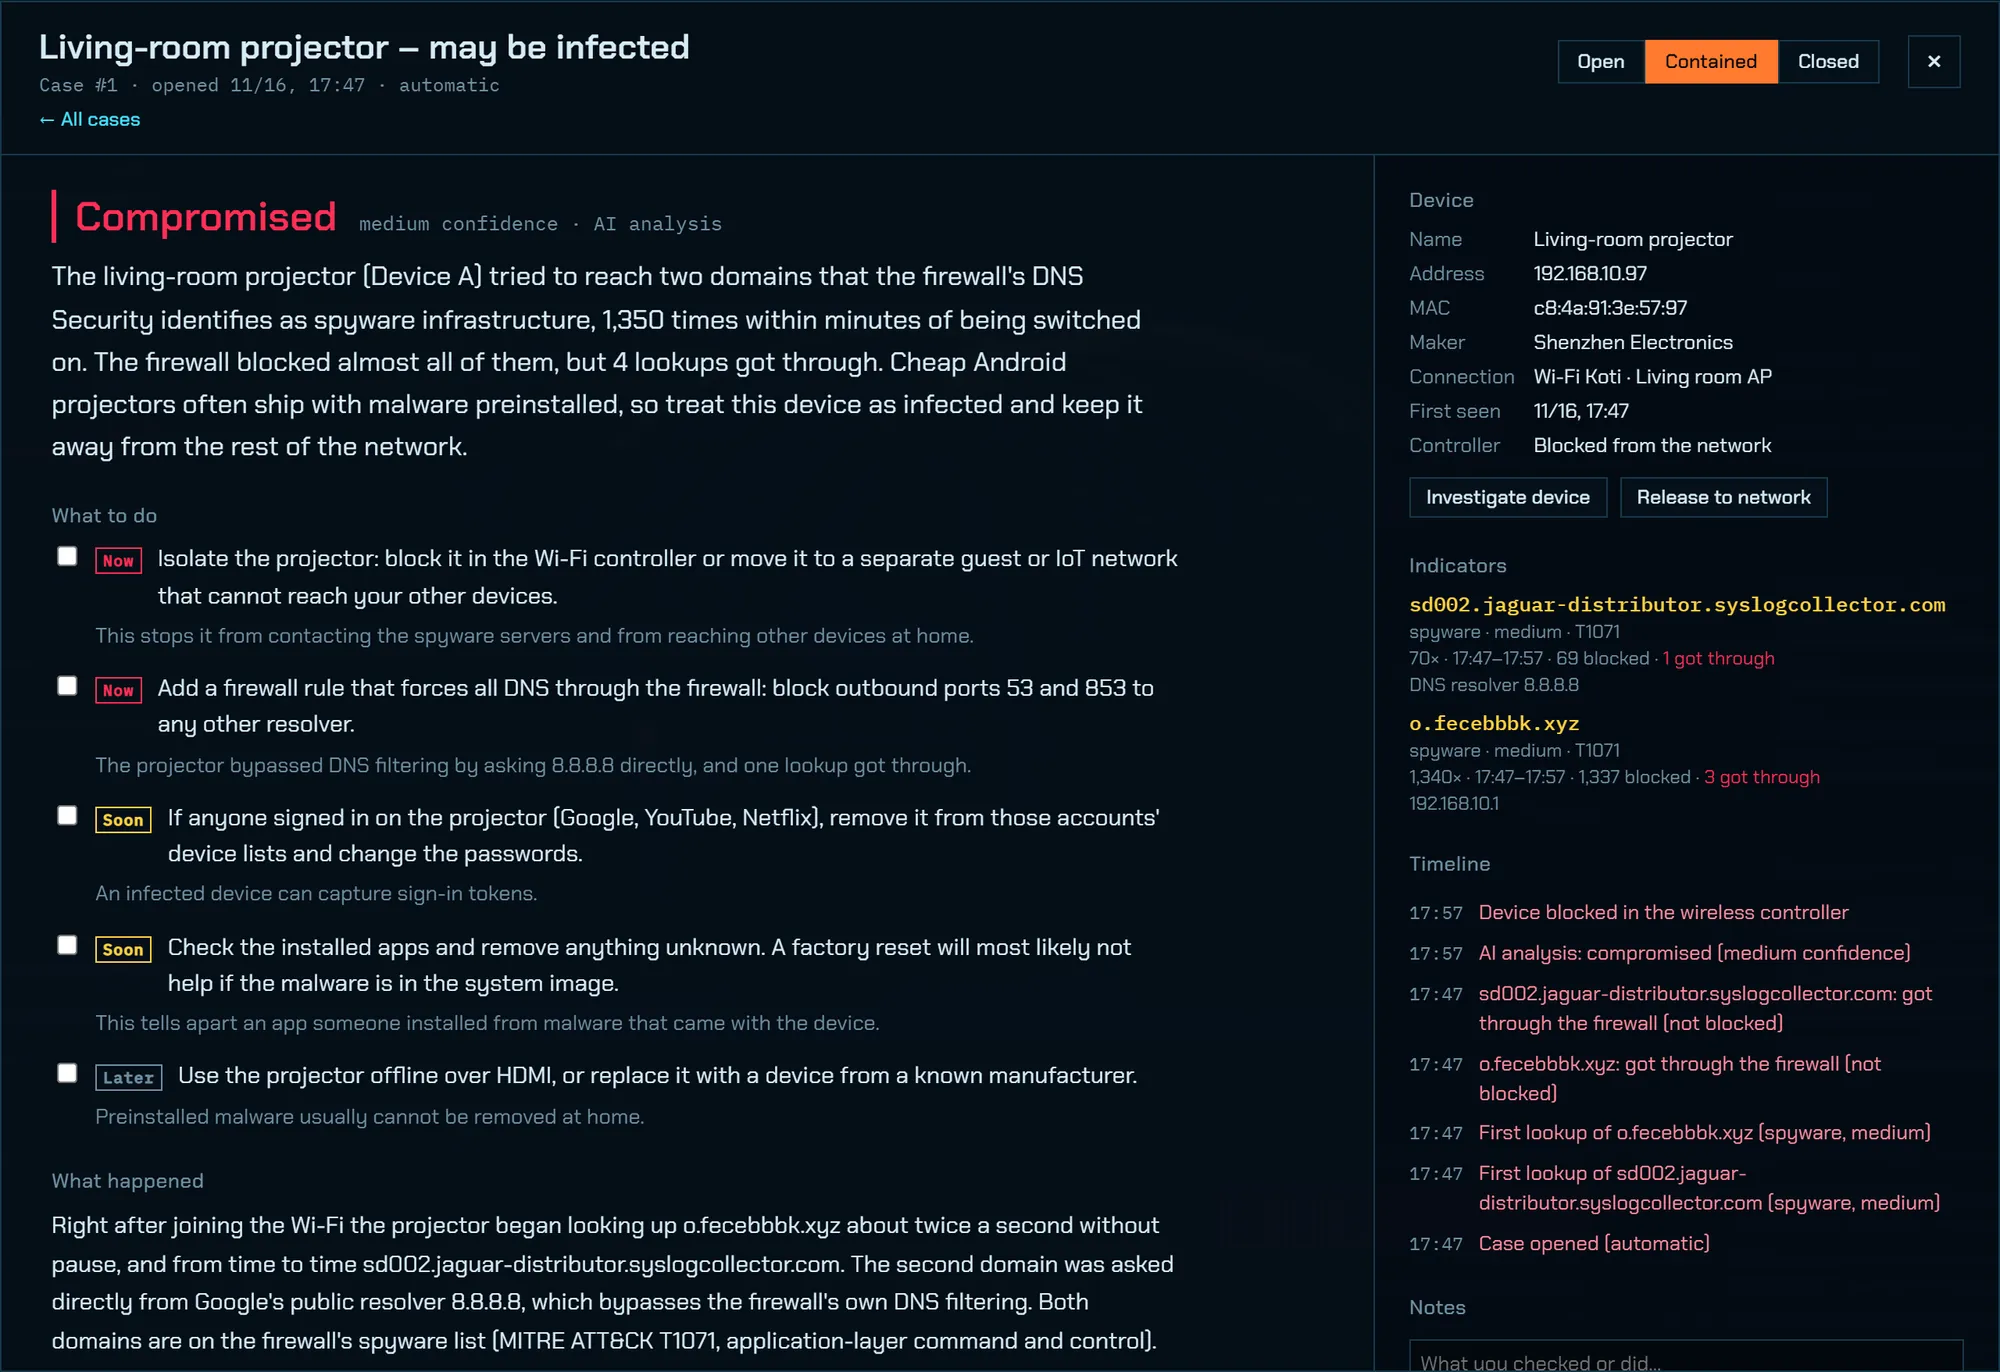
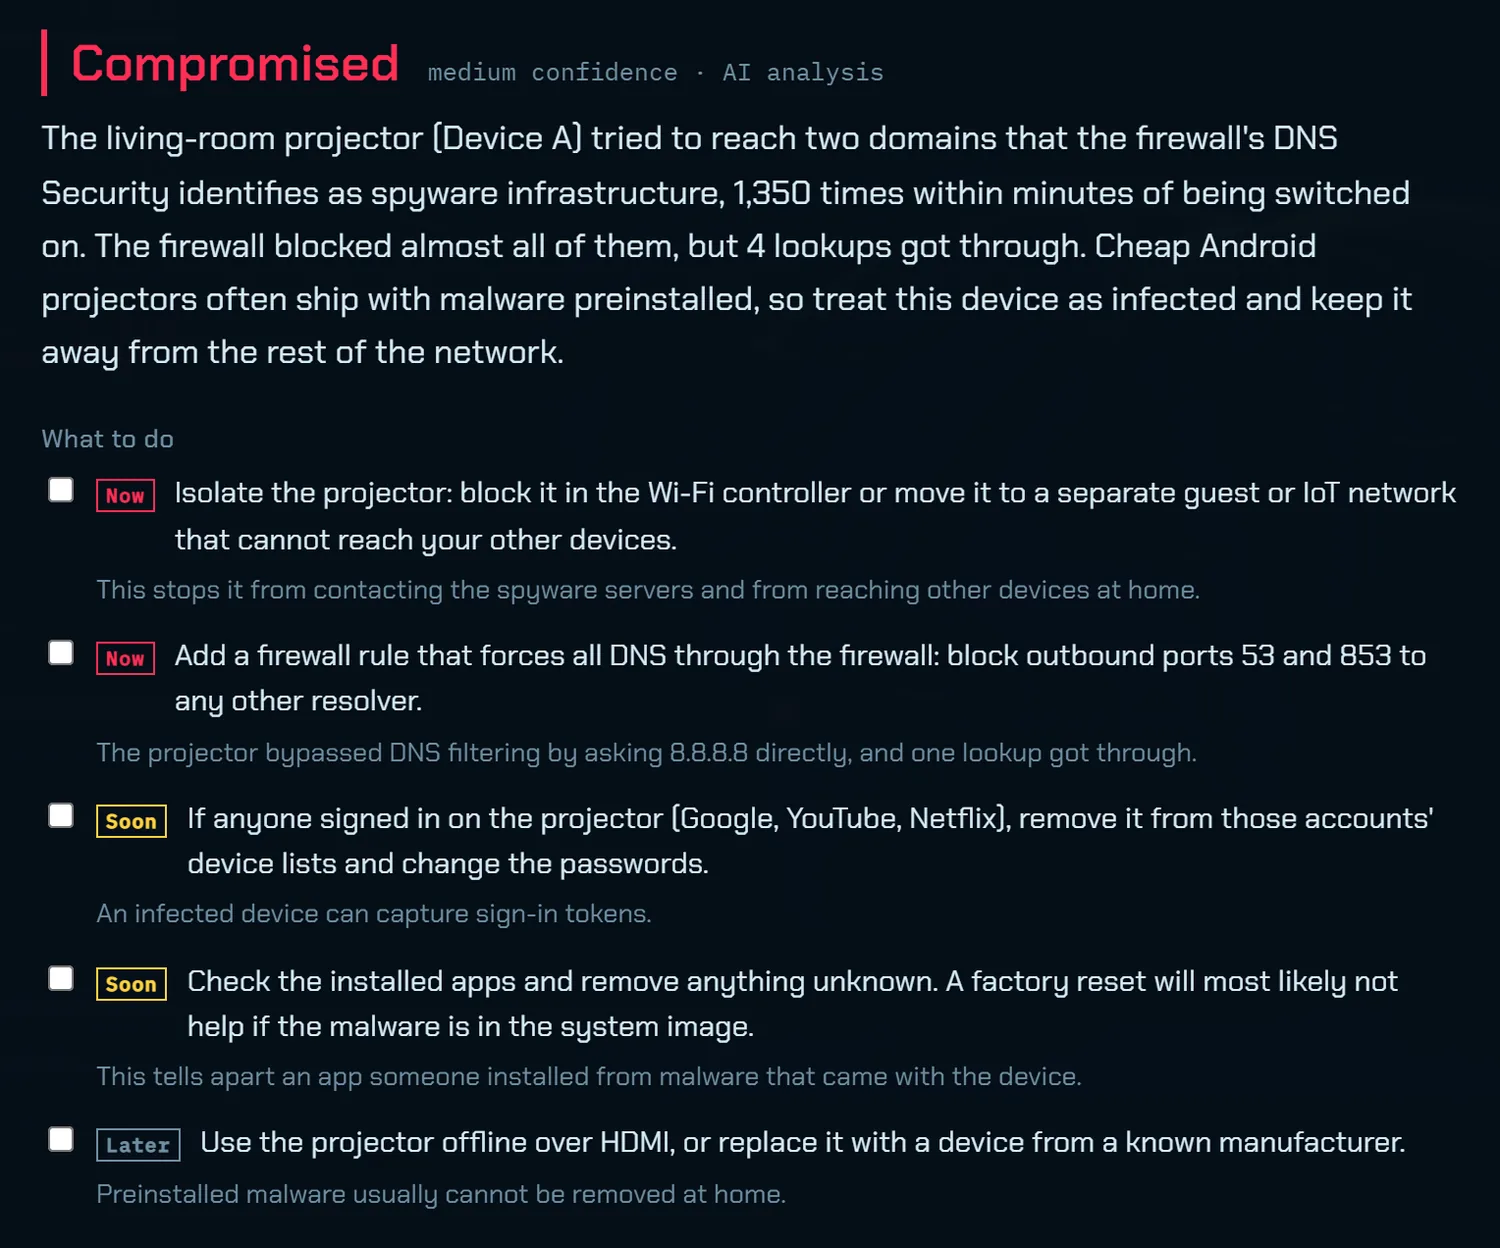
Northwatch: sleek hero (promise + phone alarm), plain verdict card instead of busy screenshot

Changed region(s): [[0.0, 0.0, 0.9813, 1.0], [0.7667, 0.0, 0.9507, 0.0625], [0.5213, 0.0312, 0.5827, 0.0625]]

diff --git a/index.html b/index.html
@@ -58,14 +58,14 @@ p{margin:0 0 14px}
   .hero .shot img{aspect-ratio:4/3;object-fit:cover;object-position:50% 45%}}
 
 /* hero */
-.hero{position:relative;padding:clamp(48px,8vw,96px) 0 0;overflow:hidden}
+.hero{position:relative;padding:clamp(40px,6vw,72px) 0 clamp(24px,4vw,48px);overflow:hidden}
 .hero::before{content:"";position:absolute;inset:-20% -10% auto;height:120%;pointer-events:none;
   background:radial-gradient(ellipse at 50% 70%,rgba(69,227,255,.12),transparent 60%)}
 .status{display:inline-flex;align-items:center;gap:10px;font:500 14px var(--data);color:var(--phos);margin-bottom:22px}
 .status i{width:8px;height:8px;border-radius:50%;background:var(--phos);box-shadow:0 0 10px var(--phos);animation:pulse 2.4s ease-in-out infinite}
 @keyframes pulse{50%{opacity:.35}}
 @media (prefers-reduced-motion:reduce){.status i{animation:none}}
-.hero h1{font-size:clamp(42px,7vw,88px);line-height:.98;letter-spacing:-.01em;max-width:13ch}
+.hero h1{font-size:clamp(42px,6.2vw,80px);line-height:.98;letter-spacing:-.01em;max-width:12ch}
 .lede{font-size:clamp(19px,2vw,22px);line-height:1.55;color:var(--frost);max-width:34em;margin:26px 0 32px}
 .lede b{color:var(--snow);font-weight:600}
 .ctas{display:flex;flex-wrap:wrap;gap:14px;align-items:center}
@@ -80,31 +80,37 @@ p{margin:0 0 14px}
 .shot .panel{padding:6px}
 .shot img{width:100%;height:auto;clip-path:polygon(10px 0,100% 0,100% calc(100% - 10px),calc(100% - 10px) 100%,0 100%,0 10px)}
 .shot figcaption{font:400 13px var(--data);color:var(--mute);margin-top:12px}
-/* hero stage: calm map, two clear messages */
-.stage{position:relative;margin:clamp(40px,6vw,72px) 0 0}
-.stage .map{width:100%;height:auto;opacity:.62;-webkit-mask-image:radial-gradient(ellipse 75% 80% at 45% 50%,#000 55%,transparent 100%);mask-image:radial-gradient(ellipse 75% 80% at 45% 50%,#000 55%,transparent 100%)}
-.notes{position:absolute;right:2%;top:50%;transform:translateY(-50%);width:min(400px,40%);display:flex;flex-direction:column;gap:14px}
-.note{padding:20px 22px 20px;background:rgba(6,17,26,.9);backdrop-filter:blur(6px)}
-.note p{margin:0}
-.nh{display:flex;align-items:center;gap:8px;font:500 13px var(--data);color:var(--mute)}
-.nh i{width:8px;height:8px;border-radius:50%}
-.calm .nh i{background:var(--phos);box-shadow:0 0 8px var(--phos)}
-.alarm .nh i{background:var(--flare);box-shadow:0 0 10px var(--flare);animation:pulse 1.6s ease-in-out infinite}
-.nt{font:600 22px/1.2 var(--display);color:var(--snow);margin:8px 0 6px!important}
-.calm .nt{color:var(--phos)}
-.nb{font-size:15px;line-height:1.5;color:var(--frost)}
-.nd{font-size:15px;margin-top:10px!important;color:var(--snow)}
-.nd b{color:var(--flare);font-weight:600}
-.alarm::before{border-color:rgba(255,46,85,.55)!important;background:linear-gradient(135deg,rgba(255,46,85,.45) 0,transparent 24px) top left/44px 44px no-repeat,linear-gradient(-45deg,rgba(255,46,85,.45) 0,transparent 24px) bottom right/44px 44px no-repeat!important}
-.nbtn{display:flex;gap:8px;margin-top:16px;font:600 14px/1 var(--display)}
-.nbtn span{padding:10px 12px}
-.nbtn .b1{background:var(--flare);color:#fff}
-.nbtn .b2{box-shadow:inset 0 0 0 1px var(--wire);color:var(--snow)}
-@media (max-width:900px){
-  .notes{position:static;transform:none;width:auto;margin-top:-12%}
-  .stage .map{opacity:.7}
-}
-
+/* hero: promise on the left, one phone with one alarm on the right */
+.hero-grid{display:grid;grid-template-columns:minmax(0,1.15fr) minmax(0,.85fr);gap:clamp(32px,5vw,72px);align-items:center;min-height:calc(100vh - 64px - 96px)}
+@media (max-width:900px){.hero-grid{grid-template-columns:minmax(0,1fr);min-height:0}}
+.device{position:relative;display:grid;place-items:center;padding:24px 0 8px}
+.device::before{content:"";position:absolute;width:150%;aspect-ratio:1;left:50%;top:50%;transform:translate(-50%,-50%);pointer-events:none;
+  background:repeating-radial-gradient(circle,rgba(69,227,255,.07) 0 1px,transparent 1px 64px),radial-gradient(circle,rgba(69,227,255,.16),transparent 58%);
+  -webkit-mask-image:radial-gradient(circle,#000 30%,transparent 68%);mask-image:radial-gradient(circle,#000 30%,transparent 68%)}
+.phone{position:relative;width:min(330px,82vw);aspect-ratio:9/16.6;border-radius:46px;background:#050d15;
+  box-shadow:0 0 0 10px #0e1b25,0 0 0 11px #22394a,0 50px 100px -30px rgba(0,0,0,.9),0 0 90px -20px rgba(69,227,255,.35);
+  padding:18px 20px 22px;display:flex;flex-direction:column;overflow:hidden}
+.phone .sb{display:flex;justify-content:space-between;font:600 13px var(--body);color:var(--snow);padding:0 6px}
+.phone .sb i{width:84px;height:22px;border-radius:12px;background:#000;margin-top:-4px}
+.phone .app{display:flex;align-items:center;gap:8px;margin:22px 4px 18px;font:600 12px var(--display);letter-spacing:.32em;color:var(--frost)}
+.phone .app svg{width:18px;height:18px}
+.alert{background:linear-gradient(180deg,rgba(255,46,85,.16),rgba(255,46,85,.05));border:1px solid rgba(255,46,85,.45);border-radius:22px;padding:18px 18px 16px}
+.alert .h{display:flex;align-items:center;gap:8px;font:500 12px var(--data);color:#ff8fa5}
+.alert .h i{width:8px;height:8px;border-radius:50%;background:var(--flare);box-shadow:0 0 10px var(--flare);animation:pulse 1.6s ease-in-out infinite}
+.alert .t{font:600 22px/1.15 var(--display);color:#fff;margin:10px 0 8px}
+.alert .d{font-size:14px;line-height:1.45;color:var(--frost);margin:0}
+.alert .todo{margin:14px 0 0;padding-top:12px;border-top:1px solid rgba(255,46,85,.25);font-size:14px;color:var(--snow)}
+.alert .todo b{display:block;font:500 11px var(--data);color:#ff8fa5;margin-bottom:3px}
+.phone .act{margin-top:16px;display:grid;gap:8px}
+.phone .act span{display:block;text-align:center;border-radius:14px;padding:14px;font:600 15px var(--display)}
+.phone .act .p{background:var(--flare);color:#fff}
+.phone .act .s{color:var(--snow);background:rgba(255,255,255,.06)}
+.phone .ok{margin-top:auto;display:flex;align-items:center;gap:10px;border-radius:16px;background:rgba(107,255,176,.07);padding:12px 14px;font-size:13px;line-height:1.35;color:var(--frost)}
+.phone .ok i{flex:none;width:8px;height:8px;border-radius:50%;background:var(--phos);box-shadow:0 0 8px var(--phos)}
+.phone .ok b{color:var(--phos);font-weight:600}
+.alert{animation:arrive .9s cubic-bezier(.2,.8,.2,1) .6s both}
+@keyframes arrive{from{opacity:0;transform:translateY(-24px) scale(.97)}to{opacity:1;transform:none}}
+@media (prefers-reduced-motion:reduce){.alert{animation:none}.alert .h i{animation:none}}
 /* sections */
 section{padding:clamp(72px,10vw,128px) 0 0}
 .kicker{font:500 14px var(--data);color:var(--ion);margin:0 0 14px}
@@ -166,6 +172,18 @@ h2{font-size:clamp(32px,4.6vw,56px);line-height:1.02;letter-spacing:-.005em;max-
 .tag.now{color:var(--flare);box-shadow:inset 0 0 0 1px var(--flare)}
 .tag.soon{color:var(--amber);box-shadow:inset 0 0 0 1px var(--amber)}
 .tag.later{color:var(--mute);box-shadow:inset 0 0 0 1px var(--mute)}
+
+/* verdict card */
+.verdict{margin:0;padding:clamp(24px,3.5vw,40px);background:rgba(8,22,33,.85)}
+.verdict p{margin:0}
+.vh{display:flex;align-items:center;gap:12px;margin-bottom:22px!important}
+.badge{font:600 20px/1 var(--display);color:#fff;background:var(--flare);padding:9px 14px}
+.conf{font:500 13px var(--data);color:var(--mute)}
+.vt{font:500 13px var(--data);color:var(--ion);margin:0 0 8px!important}
+.vd{font-size:18px;line-height:1.55;color:var(--snow);margin-bottom:24px!important}
+.todo{list-style:none;margin:0;padding:0;display:grid;gap:10px}
+.todo li{display:flex;align-items:baseline;gap:4px;font-size:17px;color:var(--snow);padding:12px 14px;background:rgba(2,6,11,.55)}
+.todo .tag{flex:none;min-width:48px;text-align:center}
 
 /* case timeline */
 .tl{list-style:none;margin:20px 0 0;padding:0;border-left:1px solid var(--wire)}
@@ -229,33 +247,31 @@ footer .sp{flex:1}
 
 <main>
 <div class="hero">
-  <div class="wrap">
-    <p class="status"><i></i>Watching your network, around the clock</p>
-    <h1>A security operations centre for the rest of us.</h1>
-    <p class="lede">Northwatch watches your network day and night, raises the alarm <b>only when something real happens</b> and explains it in plain language. You don't need to be a security expert. <b>It gives you the facts, you make the call.</b></p>
-    <div class="ctas">
-      <a class="btn solid" href="#contact">Get early access</a>
-      <a class="btn ghost" href="#how">See how it works</a>
-    </div>
-    <p class="price">Affordable monthly subscription. Runs on a small box in your own network.</p>
-    <figure class="stage">
-      <img class="map" src="img/nw-hero-map.webp" width="2000" height="1098" alt="Northwatch world map with connections and blocked attacks arriving at a home network" fetchpriority="high">
-      <div class="notes">
-        <div class="note calm panel">
-          <p class="nh"><i></i>Today</p>
-          <p class="nt">1,994 attacks stopped</p>
-          <p class="nb">Scans and break-in attempts from 41 countries. All blocked. Nothing for you to do.</p>
-        </div>
-        <div class="note alarm panel">
-          <p class="nh"><i></i>Alarm, just now</p>
-          <p class="nt">Living-room projector may be infected</p>
-          <p class="nb">It tried to reach a spyware server 1,350 times. Your firewall blocked almost all of them.</p>
-          <p class="nd"><b>Do now:</b> take it off the network.</p>
-          <div class="nbtn"><span class="b1">Isolate device</span><span class="b2">Show details</span></div>
-        </div>
+  <div class="wrap hero-grid">
+    <div>
+      <p class="status"><i></i>Watching your network, around the clock</p>
+      <h1>Your network, watched day and night.</h1>
+      <p class="lede">Northwatch keeps an eye on every device in your home or business and tells you <b>only when something real happens</b>, in plain words. No expertise needed. <b>It gives you the facts, you make the call.</b></p>
+      <div class="ctas">
+        <a class="btn solid" href="#contact">Get early access</a>
+        <a class="btn ghost" href="#how">See how it works</a>
       </div>
-    </figure>
-    <p class="price" style="margin-top:14px">Map recorded from a demo home network. Messages shortened from the real alarm.</p>
+      <p class="price">One affordable monthly price. No IT department needed.</p>
+    </div>
+    <div class="device" aria-label="Example of a Northwatch alarm on a phone">
+      <div class="phone">
+        <div class="sb"><span>21:04</span><i></i><span>5G</span></div>
+        <div class="app"><svg viewBox="0 0 32 32" aria-hidden="true"><circle cx="16" cy="16" r="12" fill="none" stroke="#45e3ff" stroke-width="2.4"/><path d="M16 16 24.5 7.5" stroke="#45e3ff" stroke-width="2.4"/><circle cx="16" cy="16" r="2.6" fill="#e6f2f8"/></svg>NORTHWATCH</div>
+        <div class="alert">
+          <p class="h"><i></i>Alarm, just now</p>
+          <p class="t">Living-room projector may be infected</p>
+          <p class="d">It tried to contact a spyware server 1,350 times. Your firewall stopped almost all of them.</p>
+          <p class="todo"><b>What to do</b>Take it off your network.</p>
+        </div>
+        <div class="act"><span class="p">Isolate device</span><span class="s">Show me why</span></div>
+        <div class="ok"><i></i><span><b>Everything else is fine.</b> 1,994 attacks stopped today, nothing for you to do.</span></div>
+      </div>
+    </div>
   </div>
 </div>
 
@@ -263,7 +279,7 @@ footer .sp{flex:1}
   <div class="wrap">
     <p class="kicker">Who it's for</p>
     <h2>Built for networks that nobody watches.</h2>
-    <p class="intro">Large companies pay for a security operations centre that watches their network around the clock. Homes and small businesses face the same attacks, from the same places, without anyone watching. Northwatch closes that gap.</p>
+    <p class="intro">Large companies pay security experts to watch their network around the clock. Homes and small businesses face the same attacks, from the same places, without anyone watching. Northwatch closes that gap.</p>
     <div class="who">
       <article>
         <div class="ph"><img loading="lazy" src="https://images.unsplash.com/photo-1758687125679-d000e186e09b?w=1000&q=75&auto=format&fit=crop" alt="A father and son smiling on a sofa at home"></div>
@@ -325,17 +341,22 @@ footer .sp{flex:1}
 <section>
   <div class="wrap">
     <div class="row flip">
-      <figure class="shot"><div class="panel"><img loading="lazy" src="img/nw-case.webp" width="2000" height="1372" alt="Northwatch case view: verdict Compromised with medium confidence, a plain-language explanation, a to-do list marked Now, Soon and Later, device details and a timeline"></div><figcaption>The case room with the optional AI analysis.</figcaption></figure>
+      <figure class="verdict panel" aria-label="Example of a Northwatch explanation">
+        <p class="vh"><span class="badge">Infected</span><span class="conf">Fairly sure</span></p>
+        <p class="vt">What happened</p>
+        <p class="vd">The projector tried to contact a spyware server more than a thousand times within minutes of being switched on. Cheap projectors sometimes come with spying software already installed.</p>
+        <p class="vt">What to do</p>
+        <ol class="todo">
+          <li><span class="tag now">Now</span>Take the projector off your network.</li>
+          <li><span class="tag soon">Soon</span>Change the passwords of any accounts you used on it.</li>
+          <li><span class="tag later">Later</span>Replace it with one from a maker you know.</li>
+        </ol>
+      </figure>
       <div class="txt">
         <p class="kicker">Plain language</p>
         <h2>An answer, not a wall of codes.</h2>
-        <p>Every alarm comes with the whole story: which device, what it did, when and how often. If you want, an AI reads it through and explains what most likely happened and how sure it can be.</p>
-        <ul class="ticks">
-          <li><span class="tag now">Now</span>Isolate the projector from the rest of the network.</li>
-          <li><span class="tag soon">Soon</span>Change the passwords of accounts used on it.</li>
-          <li><span class="tag later">Later</span>Replace it with a device from a known maker.</li>
-        </ul>
-        <p style="margin-top:8px">The AI is optional. Before anything is sent, you see exactly what would leave your network, and details about your home or office are hidden.</p>
+        <p>Every alarm explains what happened, how sure Northwatch is and what to do now, soon and later. Written for people, not for experts.</p>
+        <p>The explanation is optional. Before anything is sent for it, you see exactly what would leave your network, and details about your home or office are hidden.</p>
       </div>
     </div>
   </div>
